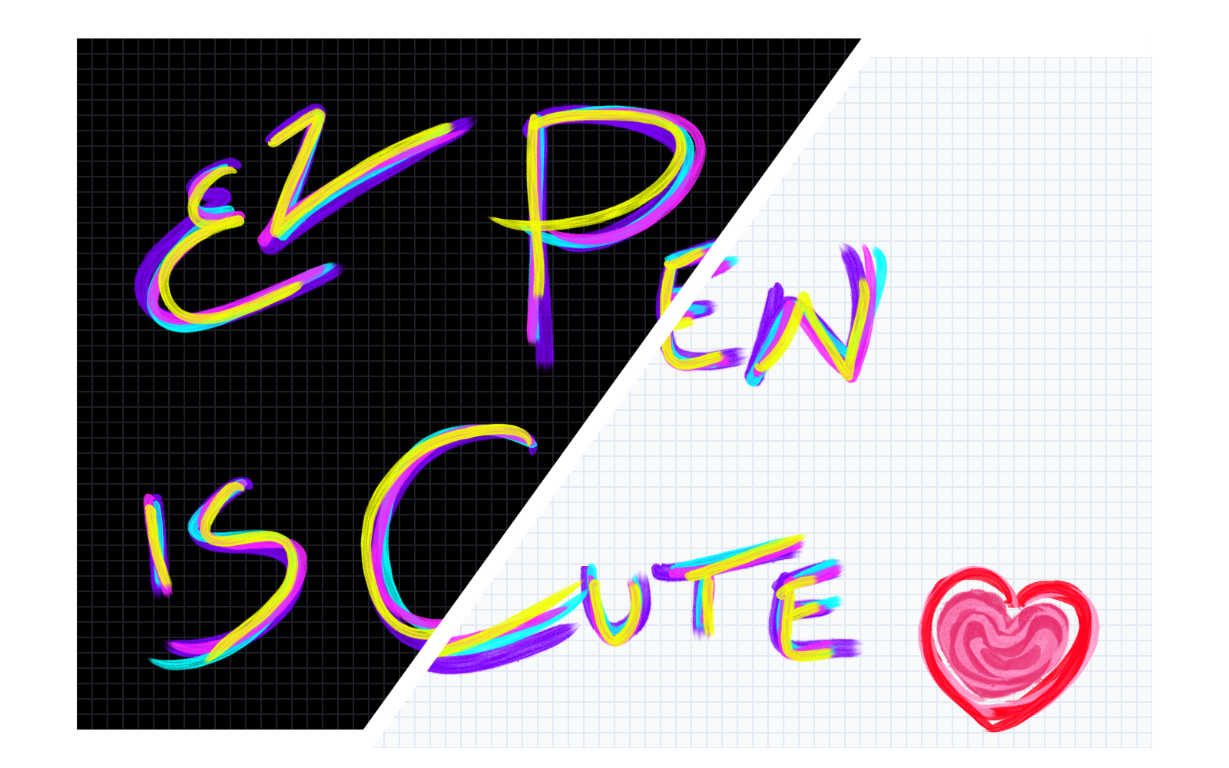
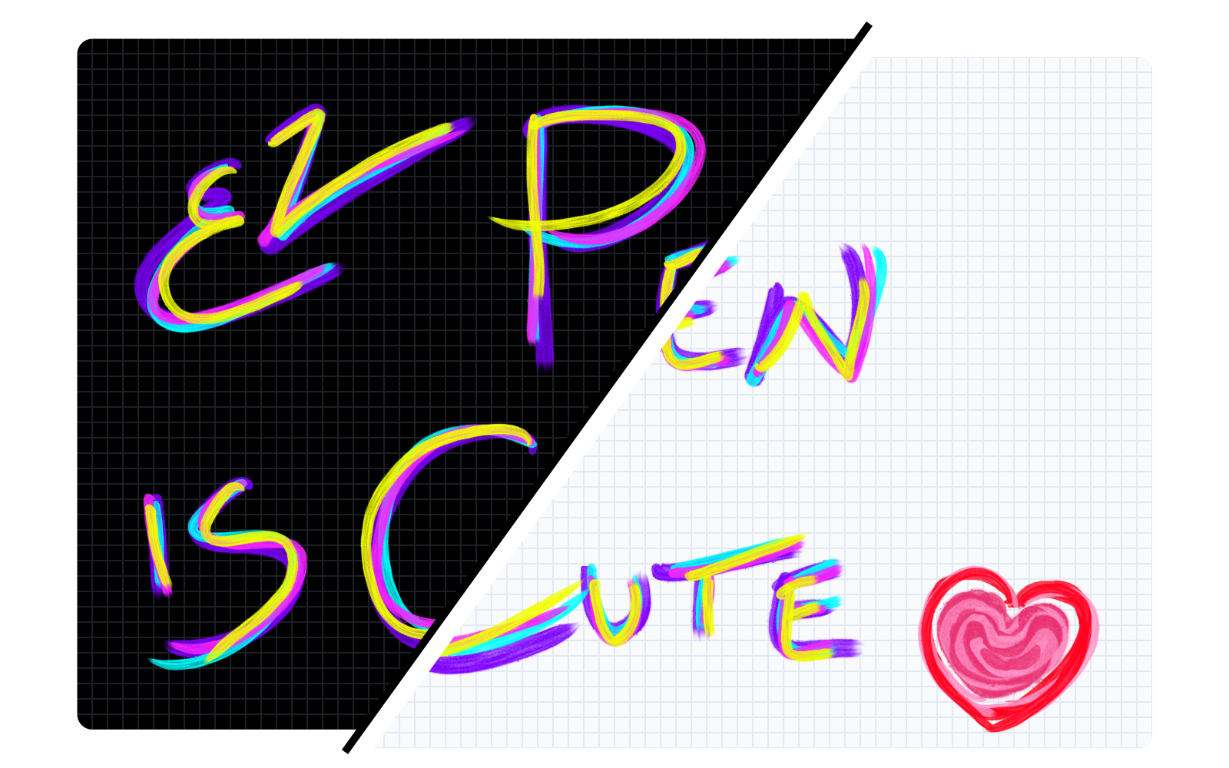
Update ezPen hero artwork

diff --git a/tests/site.spec.ts b/tests/site.spec.ts
@@ -73,7 +73,7 @@ test('hero displays the supplied artwork without a browser drawing imitation', a
   await page.goto('/');
   const hero = page.locator('.product-figure img');
   await expect(hero).toBeVisible();
-  await expect(hero).toHaveAttribute('src', '/ezpen-main.png');
+  await expect(hero).toHaveAttribute('src', '/ezpen-main.png?v=d6c1e6f0');
   await expect(hero).toHaveAttribute('width', '1229');
   await expect(hero).toHaveAttribute('height', '768');
   expect(await hero.evaluate(image => ({ width: image.naturalWidth, height: image.naturalHeight })))
@@ -336,7 +336,7 @@ for (const width of [320, 390, 768, 1024, 1440]) {
     await page.goto('/');
     expect(await page.evaluate(() => document.documentElement.scrollWidth)).toBeLessThanOrEqual(width);
     await expect(page.getByRole('heading', { level: 1 })).toBeVisible();
-    await expect(page.locator('.product-figure img[src="/ezpen-main.png"]')).toBeVisible();
+    await expect(page.locator('.product-figure img[src="/ezpen-main.png?v=d6c1e6f0"]')).toBeVisible();
     for (const icon of await page.locator('.pen-shelf img[src^="/icons/"]').all()) {
       await expect(icon).toBeVisible();
     }

diff --git a/index.html b/index.html
@@ -59,7 +59,7 @@
           <div class="capture-note handwritten" aria-hidden="true">infinite room for your ideas
             <svg class="chalk-line" viewBox="0 0 90 55"><path d="M8 4c4 22 34 13 53 33m0 0-2-17m2 17-17-2" /></svg>
           </div>
-          <img src="/ezpen-main.png" alt="Colourful handwritten ezPen is cute lettering and a heart on light and dark grids" width="1229" height="768" fetchpriority="high" />
+          <img src="/ezpen-main.png?v=d6c1e6f0" alt="Colourful handwritten ezPen is cute lettering and a heart on light and dark grids" width="1229" height="768" fetchpriority="high" />
         </figure>
       </section>
 
